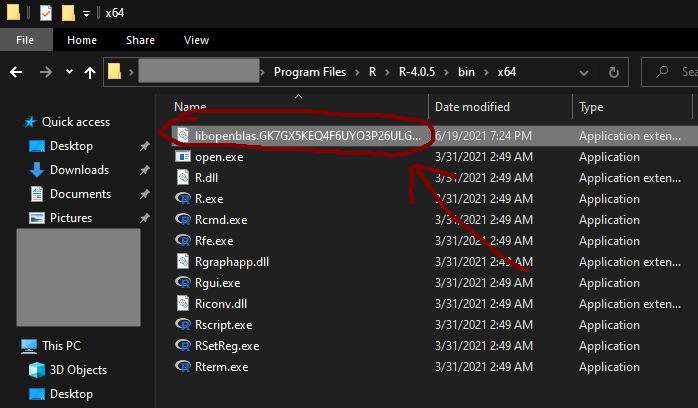
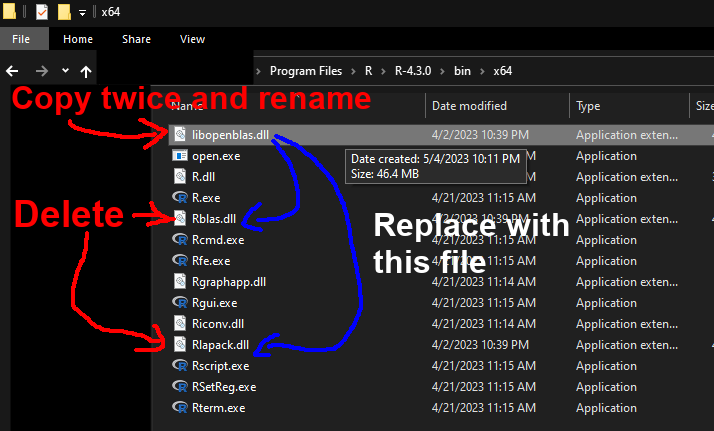
update tutorial to download openblas from github fixes #1

diff --git a/README.md b/README.md
@@ -49,39 +49,37 @@ That is to say: using OpenBLAS made the operation almost 30x faster. No changes 
 
 The following will be required in order to follow the next steps:
 * Write access to the folder where R is installed. If R was installed with the default options in the installer, saying 'Yes' to all, this means that administrator rights will be required.
-* Some compression/de-compression software that could extract compressed files from Python wheels, such as [7-zip](https://www.7-zip.org).
+* Some compression/de-compression software that could extract compressed zip files, such as [7-zip](https://www.7-zip.org).
 
 ### Instructions in detail
 
 * Close any R/RStudio session currently running, if there is any.
 
-* Download the [Numpy wheel for Windows](https://pypi.org/project/numpy/#files) from PyPI. There are many of them so it needs to be the correct variant: should say `win` (as this is for windows), and should match to the computer architecture (`amd64` for 64-bit windows versions, `win32` for 32-bit version). Example: `numpy-1.20.2-cp37-cp37m-win_amd64.whl`. Alternatively, and **for better performance**, find some other OpenBLAS library built with OpenMP support, such as the ones from [conda-forge](https://anaconda.org/conda-forge/openblas/files) (also need to extract the underlying .dll/.lib files).
-![image](numpy_version.png "numpy_version")
+* Download the latest version of OpenBLAS for Windows from their [GitHub releases page](https://github.com/xianyi/OpenBLAS/releases) - **be sure to download the right version** for your platform. Most likely, will be named similarly to this (as it was on version 0.3.23):
+![image](github_openblas.png "github_openblas.png")
 
-* De-compress (un-zip) the wheel. If using 7-zip, this can be done by right-clicking the file, selecting '7-zip' and then 'Extract to ...' or similar.
+* De-compress (un-zip) the file. If using 7-zip, this can be done by right-clicking the file, selecting '7-zip' and then 'Extract to ...' or similar.
 ![image](extracting.png "extracting")
 
-* In the folder where the contents of the wheel archive were extracted, locate some file ending in `.dll` with a name containing `openblas`. Typically, this should be under `<folder>\numpy\.libs\`, and might be named as something like `libopenblas.GK7GX5KEQ4F6UYO3P26ULGBQYHGQO7J4.gfortran-win_amd64.dll`. Keep this file at hand for later.
+* In the folder where it was installed, locate a file named `libopenblas.dll`, which should **NOT** be under the same folder as other files ending in `.a` (or if it does, make sure that the file weights several dozen megabytes at least). Most likely, this will be under a folder `lib` in the path where the archive was decompressed.
 ![image](oblas_dll.png "oblas_dll")
 
-* Locate the folder where R itself is installed. Typically, this should be something like: `C:\Program Files\R\R-4.0.5` (or some other version depending on what you have installed).
-* Within the R folder, locate the sub-folder `bin\x64` (e.g. `C:\Program Files\R\R-4.0.5\bin\x64`).
-* In this folder there should be two key files: `Rblas.dll` and `Rlapack.dll`. Copy them somewhere to have a backup if anything goes wrong.
+* Locate the folder where R itself is installed. Typically, this should be something like: `C:\Program Files\R\R-4.3.0` (or some other version depending on what you have installed).
+* Within the R folder, locate the sub-folder `bin\x64` (e.g. `C:\Program Files\R\R-4.3.0\bin\x64`).
+* In this folder there should be two key files: `Rblas.dll` and `Rlapack.dll`. Copy them somewhere else to have a backup if anything goes wrong.
 ![image](orig_ddls.png "orig_ddls")
 
 * Delete these two files (`Rblas.dll` and `Rlapack.dll`) from `bin\x64`.
-* Copy the openblas dll file which was extracted from the NumPy wheel (e.g. `libopenblas.GK7GX5KEQ4F6UYO3P26ULGBQYHGQO7J4.gfortran-win_amd64.dll`) to this same folder **twice**.
-![image](copied_dll.png "copied_dll")
+
+* Copy the openblas dll file which was extracted from the zip file to this same folder **twice**.
 
 * Rename one of the copies as `Rblas.dll` and the other as `Rlapack.dll`. Hint: under the default window settings, file extensions will be hidden, in which case the `.dll` part should be left ot when renaming them.
-![image](orig_ddls.png "orig_ddls")
+![image](orig_ddls.png "copied_dll")
 
-* **Optionally**, or if you start getting errors about a missing DLL when re-installing packages, leave a third copy of the the DLL from NumPy in this same folder, but with its original name (e.g. `libopenblas.GK7GX5KEQ4F6UYO3P26ULGBQYHGQO7J4.gfortran-win_amd64.dll`).
-
-* Optionally, do the same process for the folder `i386` which should be at the same level as `x64` (e.g. `C:\Program Files\R\R-4.0.5\bin\i386`) (**Important:** for the folder i386, it's necessary to download the NumPy wheel for `i686`, as the one for `amd64` will not do). Typically, one runs only the `x64` R version, so this is unlikely to have any effect.
+* **Optionally**, or if you start getting errors about a missing DLL when re-installing packages, leave a third copy of the the DLL from the zip file in this same folder, but with its original name (e.g. `libopenblas.dll` - that is, there should be 3 copies of the same file, with names `Rblas.dll`, `Rlapack.dll`, and `libopenblas.dll`).
 
 At this point you're done and the next time you start R it will already be using OpenBLAS for accelerated linear algebra operations.
 
 ### To keep in mind
 
-The OpenBLAS that was taken from NumPy supports multi-threading, which is controlled through an environment variable `OPENBLAS_NUM_THREADS`. Environment variables can be set through the control panel in windows. Alternatively, they can be set in R itself through e.g. `Sys.setenv("OPENBLAS_NUM_THREADS" = as.character(parallel::detectCores()))`, but setting the threads after R has already started might not have any effect. As yet another alternative, the number of threads can be set through the package `RhpcBLASctl`.
+OpenBLAS supports multi-threading, which is controlled through an environment variable `OPENBLAS_NUM_THREADS`. Environment variables can be set through the control panel in windows. Alternatively, they can be set in R itself through e.g. `Sys.setenv("OPENBLAS_NUM_THREADS" = as.character(parallel::detectCores()))`, but setting the threads after R has already started might not have any effect. As yet another alternative, the number of threads can be set through the package `RhpcBLASctl`.
